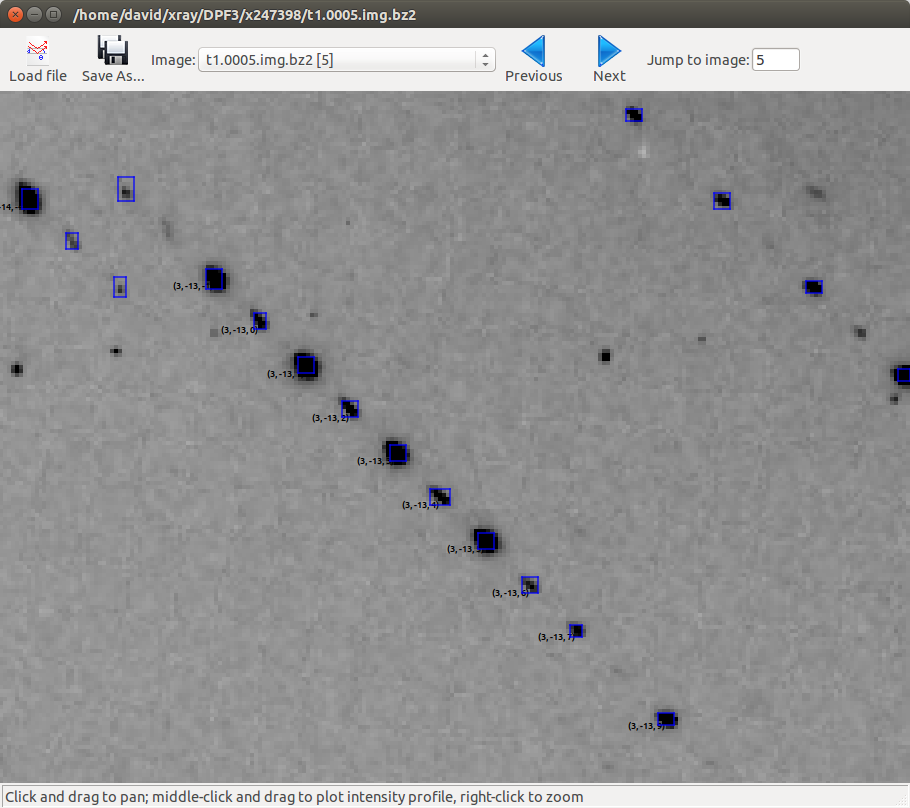
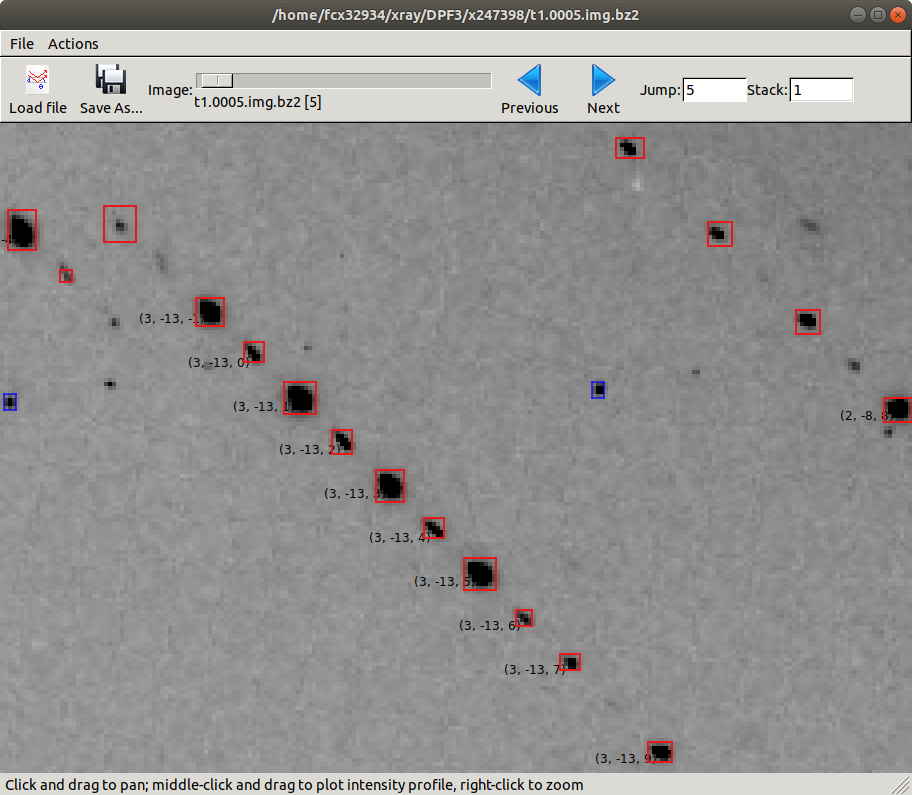
Changes to DPF3 Part 2 tutorial
Apart from the usual filename changes and log output updates, a large
section of this tutorial is broken for two reasons.

1. indexing with a known centred lattice now appears to index also
   the disallowed reflections
2. output.unindexed_reflections does not work (#987)

At the moment, simply remove the broken section.

diff --git a/doc/sphinx/documentation/tutorials/centring_vs_pseudocentring.rst b/doc/sphinx/documentation/tutorials/centring_vs_pseudocentring.rst
@@ -17,7 +17,7 @@ The second part of this tutorial continues from the results obtained in the
 :doc:`correcting_poor_initial_geometry_tutorial` tutorial. You should work
 through that first to fix the incorrect beam centre recorded in the image
 headers and produce a correct indexing solution. Following those steps to the
-end, you will have two files:
+end will produce two files that we will take as the starting point here:
 
 * :file:`bravais_setting_5.expt` - the experimental geometry including a crystal
   model with a primitive orthorhombic lattice
@@ -95,15 +95,14 @@ Here is part of the output::
 
   New crystal:
   Crystal:
-      Unit cell: (56.312, 99.662, 121.361, 90.000, 90.000, 90.000)
+      Unit cell: (56.277, 99.550, 121.252, 90.000, 90.000, 90.000)
       Space group: A 2 2 2
 
-We now have a face centred space group, but the indexed reflections still
-include those which are now disallowed by the centring operation. An easy
-way to fix this is simply to reindex the spot list using the new model. We
-also request output of the unindexed reflections to explore later::
 
-  dials.index reindexed.expt strong.refl output.unindexed_reflections=unindexed.refl
+We now have a face centred space group, which we can use to index the strong
+reflections as follows::
+
+  dials.index reindexed.expt strong.refl
 
 This produces a properly indexed spot list, but the space group is in an
 unconventional setting. We can fix this as follows::
@@ -115,125 +114,21 @@ Solution 5 is what we want::
   ----------------------------------------------------------------------------------------------------------------
   Solution Metric fit  rmsd  min/max cc #spots lattice                                 unit_cell volume      cb_op
   ----------------------------------------------------------------------------------------------------------------
-  *      5     0.0000 0.096 0.760/0.855  20000      oC  99.64 121.38  56.32  90.00  90.00  90.00 681108  b-c,b+c,a
-  *      4     0.0000 0.095 0.768/0.768  20000      mC  99.64 121.38  56.32  90.00  90.01  90.00 681106  b-c,b+c,a
-  *      3     0.0000 0.095 0.760/0.760  20000      mC 121.35  99.61  56.30  90.00  89.98  90.00 680582 b+c,-b+c,a
-  *      2     0.0000 0.095 0.855/0.855  20000      mP  78.43  56.27  78.48  90.00 101.23  90.00 339743     -b,a,c
-  *      1     0.0000 0.096         -/-  20000      aP  56.26  78.41  78.46  78.77  89.99  90.00 339502      a,b,c
+  *      5     0.0000 0.071 0.736/0.839  20000      oC  99.51 121.24  56.27  90.00  90.00  90.00 678839  b-c,b+c,a
+  *      4     0.0000 0.072 0.739/0.739  20000      mC  99.51 121.25  56.27  90.00  90.00  90.00 678994  b-c,b+c,a
+  *      3     0.0000 0.071 0.736/0.736  20000      mC 121.23  99.49  56.26  90.00  90.02  90.00 678556 b+c,-b+c,a
+  *      2     0.0000 0.069 0.839/0.839  20000      mP  78.35  56.24  78.39  90.00 101.24  90.00 338768    -c,-a,b
+  *      1     0.0000 0.070         -/-  20000      aP  56.22  78.38  78.34  78.75  90.00  90.01 338557      a,b,c
   ----------------------------------------------------------------------------------------------------------------
+
 
 The table tells us that the indexed spots need a change of basis to be
 consistent with the conventional oC lattice::
 
   dials.reindex indexed.refl change_of_basis_op=b-c,b+c,a
 
-This gives us :file:`reindexed.refl`. Before passing this along with
-:file:`bravais_setting_5.expt` to refinement and then to integration it is worth
-exploring this result with :program:`dials.image_viewer` and
-:program:`dials.reciprocal_lattice_viewer`.
-
-Here is a view of the same region of image 5 as we saw before, but now with only
-the spots allowed by centring being indexed:
-
-.. image:: /figures/dpf3_oC_im5.png
-
-Now a view of the reciprocal lattice, aligned down the :math:`c^\star` axis to
-show off the systematic absences.
-
-.. image:: /figures/dpf3_oC_lo_res.png
-
-Exploring the unindexed reflections
------------------------------------
-
-When we indexed with the oC lattice we wrote out the unindexed reflections
-as a separate file. We know that the spots in the positions disallowed by the
-oC lattice do themselves form an orthorhombic lattice. In views from the
-:program:`dials.reciprocal_lattice_viewer` you may also have seen hints of a
-third lattice in some parts of reciprocal space. We might try to index these
-lattices now::
-
-  dials.index optimised.expt unindexed.refl output.experiments=minor.expt output.reflections=minor.refl unit_cell="99 121 56 90 90 90" space_group=P222 max_lattices=2
-
-Here is some output::
-
-  model 1 (12265 reflections):
-  Crystal:
-      Unit cell: (100.027, 121.370, 56.258, 90.000, 90.000, 90.000)
-      Space group: P 2 2 2
-
-  model 2 (2969 reflections):
-  Crystal:
-      Unit cell: (99.735, 121.858, 56.487, 90.000, 90.000, 90.000)
-      Space group: P 2 2 2
-
-The first lattice is essentially the same as our original primitive solution,
-however because we have now excluded all the reflections that were indexed by
-the centred lattice, this model now *only* indexes the spots that should be
-systematically absent with an oC lattice. The second lattice comes from a
-separate crystallite, rotated about 11 degrees from the first and therefore
-easily disentangled from the others. We can combine this result with the
-previous one::
-
-  dials.combine_experiments bravais_setting_5.expt reindexed.refl minor.expt minor.refl beam=0 detector=0 scan=0 goniometer=0 compare_models=False
-
-Here, the ``beam=0`` etc. specify that the combined result should have all
-experimental models apart from the crystal taken from the first experiment,
-which is the one described by :file:`bravais_setting_5.expt`. The option
-``compare_models=False`` is required in order to force this. The result is
-about 65000 indexed reflections, split between three lattices::
-
-  ----------------------
-  | Experiment | Nref  |
-  ----------------------
-  | 0          | 50384 |
-  | 1          | 12265 |
-  | 2          | 2969  |
-  ----------------------
-
-Here is a view of reciprocal space, aligned down the shared :math:`c^\star`
-axes of the oC lattice, and its complement, the oP lattice that indexes the
-disallowed reflections::
-
-  dials.reciprocal_lattice_viewer combined.expt combined.refl
-
-.. image:: /figures/dpf3_3lattices.png
-
-It is worth spending some time with the
-:program:`dials.reciprocal_lattice_viewer` at different zoom levels and
-orientations, and with different ``Min Z`` and ``Max Z`` limits. See how the
-lattice of 'disallowed' reflections is stronger (i.e. more sufficiently strong
-spots found) in latter half of the dataset (images 100 onwards).
-
-We can see this more directly if we create an HTML report for the combined
-experiments::
-
-  dials.report combined.expt combined.refl
-
-Load the resulting :file:`dials-report.html` in a web browser. This includes
-a useful plot of the number of indexed reflections for each lattice versus
-the image number. Unfortunately the colours of curves on this plot do not
-match the colours in the :program:`dials.reciprocal_lattice_viewer`!
-Nevertheless, the plot shows how the reflections allowed for the oC lattice
-dominate throughout the data collection. The second 'lattice', which
-consists only of the reflections of the oP solution that are disallowed by
-the oC reflection conditions, is present from the start but becomes more
-prominent in the second half of the data collection. The third lattice is a
-genuinely separate component, misaligned from the frst by about 11 degrees,
-and is present only on images in the first quarter of the dataset.
-
-.. image:: /figures/dpf3_indexed_count_3lattices.png
-
-Intriguingly, the pattern of number of found strong spots for lattice 2
-(which roughly corresponds to the intensity of those spots) follows a
-sinusoidal pattern, which is weakest around image 60 and strongest around
-image 150 (after a 90 degrees rotation of the crystal). Using the image
-viewer with the ``Basis vectors`` button ticked you can see how this
-corresponds to being weakest when the beam is approximately parallel to the
-plane of the pseudocentred C face, and stronger when the beam is orthogonal
-to that face, that is when the suggested tNCS vector is orthogonal to the
-beam:
-
-.. image:: /figures/dpf3_im60_vs_150.png
+This gives us :file:`reindexed.refl`. We can now pass this along with
+:file:`bravais_setting_5.expt` to refinement and then to integration.
 
 Centred or pseudocentred?
 -------------------------
